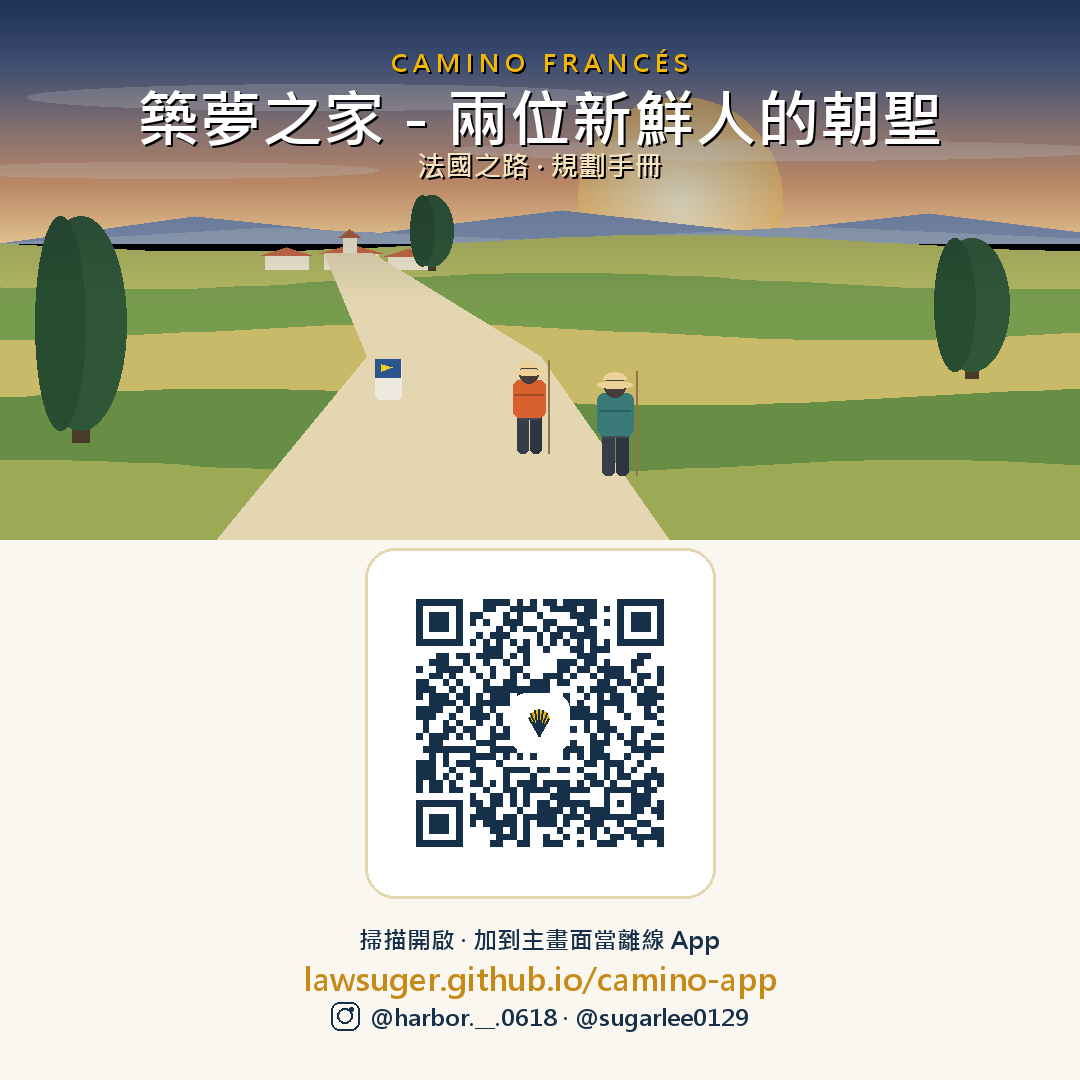
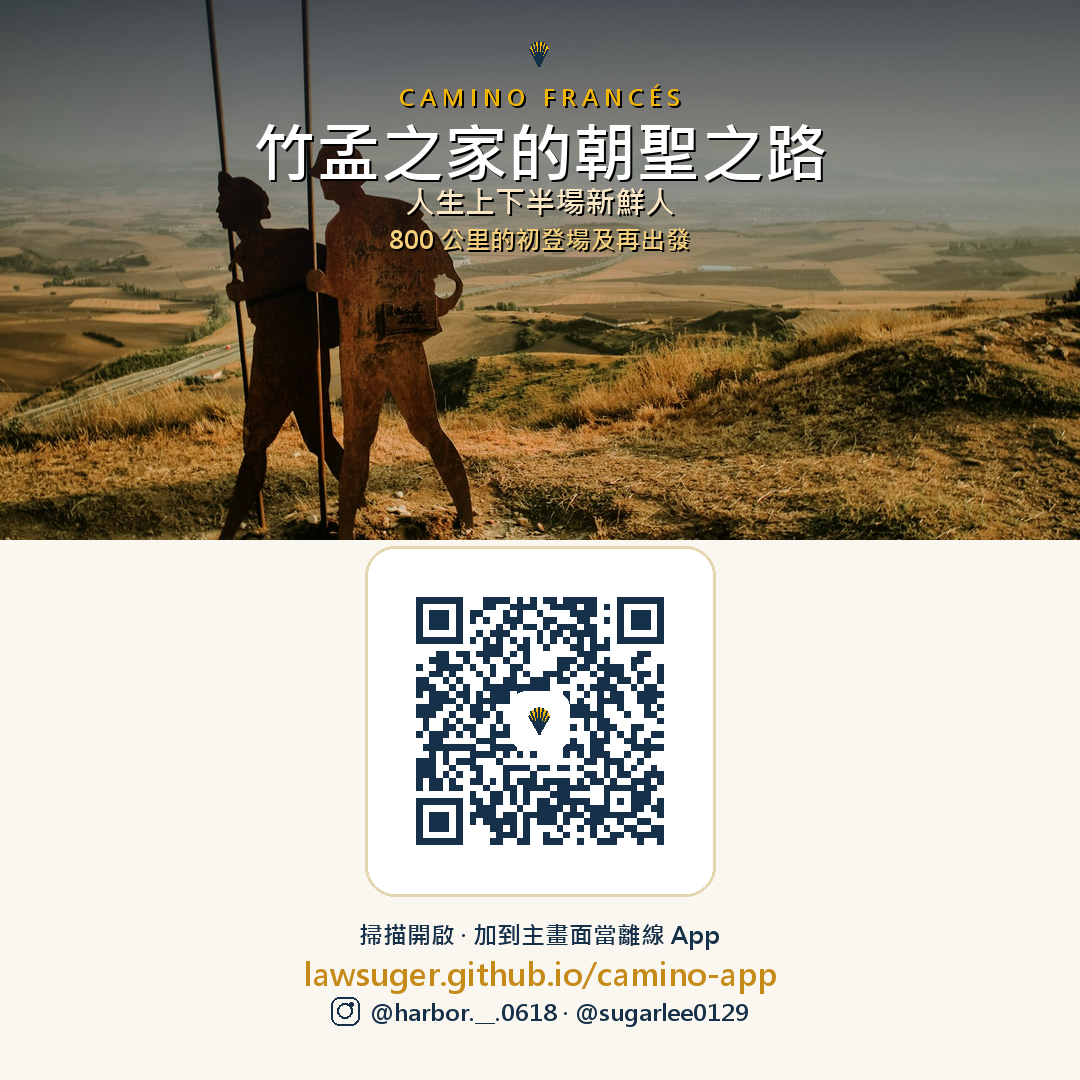
分享卡改用真實照片版（Alto del Perdón 鐵雕朝聖者，Unsplash 免費授權）＋新三行標題
- 標題：竹孟之家的朝聖之路／人生上下半場新鮮人／800公里的初登場及再出發
- 三種風格各直式+方形：乾淨 / 真實照片 / 插畫，皆含 IG、QR 解碼驗證可掃
- 新增背景圖 qr/bg-pilgrims.jpg、README 補上照片來源標註

diff --git a/make-qr.py b/make-qr.py
@@ -3,54 +3,52 @@
 # dependencies = ["qrcode[pil]>=7.4", "pillow>=10"]
 # ///
 """產生朝聖之路 App 的 QR Code 與分享卡。
+卡片底圖 qr/bg-pilgrims.jpg = Alto del Perdón 鐵雕朝聖者（Unsplash 免費授權）。
 輸出：qr-plain / qr-logo / qr.svg
-      qr-card（直式）/ qr-card-square（方形）          ← 乾淨版
-      qr-card-photo（直式）/ qr-card-photo-square（方形）← 旅行海報插畫版
+      qr-card(-square)        乾淨版
+      qr-card-photo(-square)  真實照片版（兩位朝聖者 + Camino 地標）
+      qr-card-illust(-square) 旅行海報插畫版
 用法：uv run make-qr.py"""
 import os
 import math
 import qrcode
 from qrcode.constants import ERROR_CORRECT_H
 from qrcode.image.svg import SvgPathImage
-from PIL import Image, ImageDraw, ImageFont
+from PIL import Image, ImageDraw, ImageFont, ImageOps
 
 URL = "https://lawsuger.github.io/camino-app/"
-TITLE = "築夢之家－兩位新鮮人的朝聖"
+T_MAIN = "竹孟之家的朝聖之路"
+T_SUB = "人生上下半場新鮮人"
+T_TAG = "800 公里的初登場及再出發"
 KICKER = "C A M I N O   F R A N C É S"
-SUBTITLE = "法國之路 · 規劃手冊"
-FEATURES = "裝備 · 路線 · 庇護所 · 打卡座標 · 儀式 · 美食"
 URL_TEXT = "lawsuger.github.io/camino-app"
 CAP = "掃描開啟 · 加到主畫面當離線 App"
 IG_TEXT = "@harbor.__.0618 · @sugarlee0129"
 
 OUT = os.path.join(os.path.dirname(os.path.abspath(__file__)), "qr")
+BG = os.path.join(OUT, "bg-pilgrims.jpg")
 os.makedirs(OUT, exist_ok=True)
 
-NAVY = (22, 48, 73); NAVY2 = (27, 58, 91)
+NAVY = (22, 48, 73); NAVY2 = (27, 48, 73)
 GOLD = (242, 183, 5); GOLDD = (198, 138, 24)
 MUTED = (120, 111, 98); CREAM = (250, 247, 240)
 WHITE = (255, 255, 255); FRAME = (228, 214, 176)
-
 FB = r"C:\Windows\Fonts\msjhbd.ttc"
 FR = r"C:\Windows\Fonts\msjh.ttc"
 _M = ImageDraw.Draw(Image.new("RGB", (4, 4)))
 
 
-def f(p, s):
-    return ImageFont.truetype(p, s)
+def f(p, s): return ImageFont.truetype(p, s)
 
 
-def fit(text, p, maxw, start, mn=34):
+def fit(text, p, maxw, start, mn=32):
     s = start
-    while s > mn:
-        if _M.textlength(text, font=f(p, s)) <= maxw:
-            return f(p, s)
+    while s > mn and _M.textlength(text, font=f(p, s)) > maxw:
         s -= 2
-    return f(p, mn)
+    return f(p, s)
 
 
-def lerp(a, b, t):
-    return tuple(int(a[i] + (b[i] - a[i]) * t) for i in range(3))
+def lerp(a, b, t): return tuple(int(a[i] + (b[i] - a[i]) * t) for i in range(3))
 
 
 def scallop(size):
@@ -58,8 +56,7 @@ def scallop(size):
     im = Image.new("RGBA", (size, size), (0, 0, 0, 0))
     d = ImageDraw.Draw(im)
     apex = (256 * fr, 406 * fr)
-    dome = [(146, 205), (168, 150), (210, 120), (256, 108),
-            (302, 120), (344, 150), (366, 205)]
+    dome = [(146, 205), (168, 150), (210, 120), (256, 108), (302, 120), (344, 150), (366, 205)]
     dome = [(x * fr, y * fr) for x, y in dome]
     d.polygon([apex] + dome, fill=GOLD)
     for p in dome:
@@ -70,14 +67,11 @@ def scallop(size):
 
 
 def ig_glyph(d, cx, cy, s, color):
-    r = s / 2
-    w = max(2, int(s * 0.1))
-    d.rounded_rectangle([cx - r, cy - r, cx + r, cy + r], radius=s * 0.30,
-                        outline=color, width=w)
+    r = s / 2; w = max(2, int(s * 0.1))
+    d.rounded_rectangle([cx - r, cy - r, cx + r, cy + r], radius=s * 0.30, outline=color, width=w)
     cr = s * 0.27
     d.ellipse([cx - cr, cy - cr, cx + cr, cy + cr], outline=color, width=w)
-    dr = s * 0.075
-    dx, dy = cx + r * 0.46, cy - r * 0.46
+    dr = s * 0.075; dx, dy = cx + r * 0.46, cy - r * 0.46
     d.ellipse([dx - dr, dy - dr, dx + dr, dy + dr], fill=color)
 
 
@@ -108,9 +102,8 @@ qr_logo(1000).save(os.path.join(OUT, "qr-logo.png"))
 
 def framed_qr(card, size, cx, top):
     fx = int(cx - size / 2)
-    d = ImageDraw.Draw(card)
-    d.rounded_rectangle([fx - 24, top - 24, fx + size + 24, top + size + 24],
-                        radius=30, fill=WHITE, outline=FRAME, width=3)
+    ImageDraw.Draw(card).rounded_rectangle(
+        [fx - 24, top - 24, fx + size + 24, top + size + 24], radius=30, fill=WHITE, outline=FRAME, width=3)
     card.paste(qr_logo(size), (fx, top))
     return top + size + 24
 
@@ -121,36 +114,33 @@ def footer(card, W, H, y):
     y += int(H * 0.037)
     d.text((W / 2, y), URL_TEXT, font=f(FB, int(H * 0.029)), fill=GOLDD, anchor="mm")
     y += int(H * 0.036)
-    gs = int(H * 0.026)
-    igf = f(FB, int(H * 0.0215))
-    tw = _M.textlength(IG_TEXT, font=igf)
-    gap = int(H * 0.011)
+    gs = int(H * 0.026); igf = f(FB, int(H * 0.0215))
+    tw = _M.textlength(IG_TEXT, font=igf); gap = int(H * 0.011)
     sx = W / 2 - (gs + gap + tw) / 2
     ig_glyph(d, sx + gs / 2, y, gs, NAVY)
     d.text((sx + gs + gap, y), IG_TEXT, font=igf, fill=NAVY, anchor="lm")
 
 
-# ---------- 乾淨版分享卡 ----------
+# ---------- 乾淨版 ----------
 def clean_card(W, H):
     card = Image.new("RGB", (W, H), CREAM)
     d = ImageDraw.Draw(card)
-    band = int(H * 0.155)
+    band = int(H * 0.150)
     d.rectangle([0, 0, W, band], fill=NAVY2)
-    ss = int(band * 0.46)
-    sh = scallop(ss)
+    ss = int(band * 0.46); sh = scallop(ss)
     card.paste(sh, (int(W / 2 - ss / 2), int(band * 0.13)), sh)
     d.text((W / 2, band * 0.83), KICKER, font=f(FB, int(band * 0.135)), fill=GOLD, anchor="mm")
-    y = band + int(H * 0.055)
-    d.text((W / 2, y), TITLE, font=fit(TITLE, FB, W - 150, int(H * 0.060), 40), fill=NAVY, anchor="mm")
+    y = band + int(H * 0.052)
+    d.text((W / 2, y), T_MAIN, font=fit(T_MAIN, FB, W - 150, int(H * 0.062)), fill=NAVY, anchor="mm")
     y += int(H * 0.040)
     d.rounded_rectangle([W / 2 - 66, y - 3, W / 2 + 66, y + 3], radius=3, fill=GOLD)
-    y += int(H * 0.033)
-    d.text((W / 2, y), SUBTITLE, font=f(FB, int(H * 0.030)), fill=GOLDD, anchor="mm")
-    y += int(H * 0.033)
-    d.text((W / 2, y), FEATURES, font=f(FR, int(H * 0.0225)), fill=MUTED, anchor="mm")
-    qsz = int(min(W * 0.48, H * 0.38))
-    bottom = framed_qr(card, qsz, W / 2, y + int(H * 0.038))
-    footer(card, W, H, bottom + int(H * 0.040))
+    y += int(H * 0.032)
+    d.text((W / 2, y), T_SUB, font=f(FB, int(H * 0.030)), fill=GOLDD, anchor="mm")
+    y += int(H * 0.031)
+    d.text((W / 2, y), T_TAG, font=f(FR, int(H * 0.024)), fill=MUTED, anchor="mm")
+    qsz = int(min(W * 0.47, H * 0.37))
+    bottom = framed_qr(card, qsz, W / 2, y + int(H * 0.036))
+    footer(card, W, H, bottom + int(H * 0.038))
     return card
 
 
@@ -158,7 +148,44 @@ clean_card(1080, 1350).save(os.path.join(OUT, "qr-card.png"))
 clean_card(1080, 1080).save(os.path.join(OUT, "qr-card-square.png"))
 
 
-# ---------- 旅行海報插畫場景 ----------
+# ---------- 場景版（真實照片 / 插畫共用版型）----------
+def scene_photo(W, H):
+    return ImageOps.fit(Image.open(BG).convert("RGB"), (W, H), method=Image.LANCZOS, centering=(0.42, 0.46))
+
+
+def scene_card(W, H, sq, scene_fn):
+    card = Image.new("RGB", (W, H), CREAM)
+    sceneH = int(H * (0.50 if sq else 0.55))
+    card.paste(scene_fn(W, sceneH), (0, 0))
+    sh = int(sceneH * 0.62)
+    scrim = Image.new("L", (W, sh), 0)
+    sd = ImageDraw.Draw(scrim)
+    for yy in range(sh):
+        sd.line([(0, yy), (W, yy)], fill=int(165 * (1 - yy / sh)))
+    card.paste((10, 18, 34), (0, 0, W, sh), scrim)
+    d = ImageDraw.Draw(card)
+
+    def st(xy, t, fo, fi):
+        d.text((xy[0] + 2, xy[1] + 2), t, font=fo, fill=(0, 0, 0), anchor="mm")
+        d.text(xy, t, font=fo, fill=fi, anchor="mm")
+
+    es = int(H * 0.040); semb = scallop(es)
+    card.paste(semb, (int(W / 2 - es / 2), int(H * (0.030 if sq else 0.034))), semb)
+    st((W / 2, int(H * (0.090 if sq else 0.096))), KICKER, f(FB, int(H * 0.021)), GOLD)
+    st((W / 2, int(H * (0.140 if sq else 0.150))), T_MAIN, fit(T_MAIN, FB, W - 130, int(H * 0.060)), WHITE)
+    st((W / 2, int(H * (0.186 if sq else 0.200))), T_SUB, f(FB, int(H * 0.028)), (248, 230, 196))
+    st((W / 2, int(H * (0.222 if sq else 0.238))), T_TAG, f(FB, int(H * 0.024)), (245, 208, 124))
+    qsz = int(W * (0.28 if sq else 0.32))
+    bottom = framed_qr(card, qsz, W / 2, sceneH + int(H * 0.028))
+    footer(card, W, H, bottom + int(H * 0.036))
+    return card
+
+
+scene_card(1080, 1350, False, scene_photo).save(os.path.join(OUT, "qr-card-photo.png"))
+scene_card(1080, 1080, True, scene_photo).save(os.path.join(OUT, "qr-card-photo-square.png"))
+
+
+# ---------- 插畫版場景 ----------
 def cypress(d, x, base, h, w):
     d.rectangle([x - w * 0.09, base - h * 0.12, x + w * 0.09, base], fill=(74, 58, 42))
     d.ellipse([x - w / 2, base - h, x + w / 2, base - h * 0.05], fill=(48, 86, 56))
@@ -171,116 +198,55 @@ def house(d, x, y, w, h, wall=(240, 230, 208), roof=(198, 104, 70)):
 
 
 def pilgrim_color(d, cx, feet, h, pack):
-    hr = h * 0.11
-    top = feet - h
-    lw = h * 0.10
+    hr = h * 0.11; top = feet - h; lw = h * 0.10
     d.rounded_rectangle([cx - lw * 1.3, feet - h * 0.44, cx - lw * 0.1, feet], radius=lw * 0.5, fill=(54, 60, 72))
     d.rounded_rectangle([cx + lw * 0.1, feet - h * 0.44, cx + lw * 1.3, feet], radius=lw * 0.5, fill=(46, 52, 64))
     d.line([(cx + h * 0.23, feet + h * 0.01), (cx + h * 0.23, top - hr * 0.4)], fill=(150, 116, 74), width=max(2, int(h * 0.028)))
     d.rounded_rectangle([cx - h * 0.15, top + 1.7 * hr, cx + h * 0.15, feet - h * 0.38], radius=h * 0.05, fill=(64, 76, 92))
     d.rounded_rectangle([cx - h * 0.18, top + 1.6 * hr, cx + h * 0.18, top + 1.6 * hr + h * 0.42], radius=h * 0.07, fill=pack)
-    d.line([(cx - h * 0.16, top + 1.6 * hr + h * 0.17), (cx + h * 0.16, top + 1.6 * hr + h * 0.17)], fill=lerp(pack, (0, 0, 0), 0.22), width=max(2, int(h * 0.022)))
     d.ellipse([cx - hr, top, cx + hr, top + 2 * hr], fill=(70, 60, 58))
     d.chord([cx - hr * 1.1, top - hr * 0.3, cx + hr * 1.1, top + hr * 1.0], 180, 360, fill=(236, 210, 152))
     d.ellipse([cx - hr * 1.6, top + hr * 0.55, cx + hr * 1.6, top + hr * 1.15], fill=(236, 210, 152))
 
 
 def poster_scene(W, H):
-    img = Image.new("RGB", (W, H))
-    d = ImageDraw.Draw(img)
+    img = Image.new("RGB", (W, H)); d = ImageDraw.Draw(img)
     hz = int(H * 0.45)
     sky = [(60, 92, 150), (104, 126, 178), (188, 156, 152), (240, 170, 120), (252, 216, 156)]
     for y in range(hz):
-        seg = (y / hz) * (len(sky) - 1)
-        i = min(int(seg), len(sky) - 2)
+        seg = (y / hz) * (len(sky) - 1); i = min(int(seg), len(sky) - 2)
         d.line([(0, y), (W, y)], fill=lerp(sky[i], sky[i + 1], seg - i))
     sx, sy, R = int(W * 0.63), int(hz * 0.82), int(W * 0.095)
     for r in range(R, 0, -1):
         d.ellipse([sx - r, sy - r, sx + r, sy + r], fill=lerp((255, 246, 214), (252, 200, 120), r / R))
-    ov = Image.new("RGBA", (W, H), (0, 0, 0, 0))
-    od = ImageDraw.Draw(ov)
-    for cx, cy, cw, ch, al in [(W * 0.30, hz * 0.40, W * 0.55, 26, 95),
-                               (W * 0.72, hz * 0.62, W * 0.6, 20, 70),
-                               (W * 0.15, hz * 0.7, W * 0.4, 16, 60)]:
-        od.ellipse([cx - cw / 2, cy - ch / 2, cx + cw / 2, cy + ch / 2], fill=(255, 255, 255, al))
-    img = Image.alpha_composite(img.convert("RGBA"), ov).convert("RGB")
-    d = ImageDraw.Draw(img)
-    # 遠山
-    d.polygon([(0, hz), (W * 0.18, hz - H * 0.05), (W * 0.34, hz - H * 0.015),
-               (W * 0.52, hz - H * 0.06), (W * 0.7, hz - H * 0.02),
-               (W * 0.86, hz - H * 0.055), (W, hz - H * 0.02), (W, hz)], fill=(126, 144, 178))
-    d.polygon([(0, hz), (W * 0.25, hz - H * 0.028), (W * 0.5, hz - H * 0.005),
-               (W * 0.75, hz - H * 0.03), (W, hz - H * 0.008), (W, hz)], fill=(150, 165, 188))
-    # 梯田
+    d.polygon([(0, hz), (W * 0.18, hz - H * 0.05), (W * 0.34, hz - H * 0.015), (W * 0.52, hz - H * 0.06),
+               (W * 0.7, hz - H * 0.02), (W * 0.86, hz - H * 0.055), (W, hz - H * 0.02), (W, hz)], fill=(126, 144, 178))
     for frac, col in [(0.0, (176, 182, 96)), (0.13, (120, 156, 78)), (0.30, (200, 186, 104)),
                       (0.52, (104, 142, 70)), (0.76, (156, 170, 86))]:
         ytop = hz + int((H - hz) * frac)
-        pts = [(0, H)]
-        for x in range(0, W + 1, 18):
-            pts.append((x, ytop + int(math.sin(x * 0.007 + frac * 6) * 9)))
-        pts += [(W, H)]
+        pts = [(0, H)] + [(x, ytop + int(math.sin(x * 0.007 + frac * 6) * 9)) for x in range(0, W + 1, 18)] + [(W, H)]
         d.polygon(pts, fill=col)
-    # 小村（路的盡頭、地平線附近）
     vx, vy = int(W * 0.30), hz + int(H * 0.02)
-    house(d, vx, vy, int(W * 0.05), int(H * 0.03))
-    house(d, vx + int(W * 0.06), vy + int(H * 0.006), int(W * 0.04), int(H * 0.025))
+    house(d, vx, vy, int(W * 0.05), int(H * 0.03)); house(d, vx + int(W * 0.06), vy + int(H * 0.006), int(W * 0.04), int(H * 0.025))
     house(d, vx - int(W * 0.055), vy + int(H * 0.004), int(W * 0.04), int(H * 0.026))
-    d.rectangle([vx + int(W * 0.018), vy - int(H * 0.03), vx + int(W * 0.03), vy], fill=(240, 230, 208))
-    d.polygon([(vx + int(W * 0.014), vy - int(H * 0.03)), (vx + int(W * 0.034), vy - int(H * 0.03)),
-               (vx + int(W * 0.024), vy - int(H * 0.045))], fill=(176, 92, 62))
-    # 朝聖小徑（從前景蜿蜒到村莊）
-    d.polygon([(int(W * 0.32), hz + int(H * 0.02)), (int(W * 0.30), hz + int(H * 0.02)),
-               (int(W * 0.34), int(H * 0.66)), (int(W * 0.20), H), (int(W * 0.62), H),
-               (int(W * 0.50), int(H * 0.66)), (int(W * 0.345), hz + int(H * 0.02))],
-              fill=(228, 214, 176))
-    # 絲柏
+    d.polygon([(int(W * 0.32), hz + int(H * 0.02)), (int(W * 0.30), hz + int(H * 0.02)), (int(W * 0.34), int(H * 0.66)),
+               (int(W * 0.20), H), (int(W * 0.62), H), (int(W * 0.50), int(H * 0.66)), (int(W * 0.345), hz + int(H * 0.02))], fill=(228, 214, 176))
     cypress(d, int(W * 0.075), int(H * 0.82), int(H * 0.42), int(W * 0.085))
-    cypress(d, int(W * 0.40), hz + int(H * 0.05), int(H * 0.14), int(W * 0.04))
     cypress(d, int(W * 0.90), int(H * 0.70), int(H * 0.26), int(W * 0.07))
-    # 黃箭頭路標石
     wx, wb, ws = int(W * 0.36), int(H * 0.74), int(H * 0.075)
     d.rounded_rectangle([wx - ws * 0.32, wb - ws, wx + ws * 0.32, wb], radius=ws * 0.12, fill=(238, 233, 222))
     d.rectangle([wx - ws * 0.32, wb - ws, wx + ws * 0.32, wb - ws * 0.55], fill=(40, 86, 140))
-    d.polygon([(wx - ws * 0.16, wb - ws * 0.86), (wx + ws * 0.12, wb - ws * 0.78),
-               (wx - ws * 0.16, wb - ws * 0.70)], fill=(244, 202, 44))
-    # 兩位朝聖者（兩位新鮮人）
+    d.polygon([(wx - ws * 0.16, wb - ws * 0.86), (wx + ws * 0.12, wb - ws * 0.78), (wx - ws * 0.16, wb - ws * 0.70)], fill=(244, 202, 44))
     pilgrim_color(d, int(W * 0.49), int(H * 0.84), int(H * 0.165), (216, 96, 46))
     pilgrim_color(d, int(W * 0.57), int(H * 0.88), int(H * 0.185), (58, 122, 120))
     return img
 
 
-# ---------- 海報版分享卡 ----------
-def poster_card(W, H, sq=False):
-    card = Image.new("RGB", (W, H), CREAM)
-    sceneH = int(H * (0.50 if sq else 0.54))
-    card.paste(poster_scene(W, sceneH), (0, 0))
-    sh = int(sceneH * 0.56)
-    scrim = Image.new("L", (W, sh), 0)
-    sd = ImageDraw.Draw(scrim)
-    for y in range(sh):
-        sd.line([(0, y), (W, y)], fill=int(155 * (1 - y / sh)))
-    card.paste((14, 24, 42), (0, 0, W, sh), scrim)
-    d = ImageDraw.Draw(card)
+scene_card(1080, 1350, False, poster_scene).save(os.path.join(OUT, "qr-card-illust.png"))
+scene_card(1080, 1080, True, poster_scene).save(os.path.join(OUT, "qr-card-illust-square.png"))
 
-    def st(xy, text, font, fill):
-        d.text((xy[0] + 2, xy[1] + 2), text, font=font, fill=(0, 0, 0), anchor="mm")
-        d.text(xy, text, font=font, fill=fill, anchor="mm")
-
-    st((W / 2, int(H * (0.058 if sq else 0.065))), KICKER, f(FB, int(H * 0.023)), GOLD)
-    st((W / 2, int(H * (0.108 if sq else 0.122))), TITLE, fit(TITLE, FB, W - 120, int(H * 0.058), 40), WHITE)
-    st((W / 2, int(H * (0.152 if sq else 0.170))), SUBTITLE, f(FB, int(H * 0.026)), (246, 228, 192))
-
-    qsz = int(W * (0.28 if sq else 0.32))
-    bottom = framed_qr(card, qsz, W / 2, sceneH + int(H * 0.030))
-    footer(card, W, H, bottom + int(H * 0.038))
-    return card
-
-
-poster_card(1080, 1350, sq=False).save(os.path.join(OUT, "qr-card-photo.png"))
-poster_card(1080, 1080, sq=True).save(os.path.join(OUT, "qr-card-photo-square.png"))
-
-for fn in ("qr-plain.png", "qr-logo.png", "qr.svg", "qr-card.png",
-           "qr-card-square.png", "qr-card-photo.png", "qr-card-photo-square.png"):
+for fn in ("qr-plain.png", "qr-logo.png", "qr.svg", "qr-card.png", "qr-card-square.png",
+           "qr-card-photo.png", "qr-card-photo-square.png", "qr-card-illust.png", "qr-card-illust-square.png"):
     p = os.path.join(OUT, fn)
-    print(f"{fn:24} {os.path.getsize(p):>8,} bytes")
+    print(f"{fn:26} {os.path.getsize(p):>8,} bytes")
 print("OK ->", OUT)

diff --git a/README.md b/README.md
@@ -46,6 +46,11 @@ camino-app/
 
 整合自 buencaminoinfo、gotokm0、prosabrina、cherstravel 等中文實走遊記，以及 Gronze、CaminoWays、American Pilgrims 等英文權威站與官方禮儀頁。
 
+分享卡（`qr/` 資料夾）：
+- `qr-card-photo*`：底圖為 Alto del Perdón 寬恕之峰鐵雕朝聖者，照片來自 [Unsplash](https://unsplash.com/)（免費授權 Unsplash License）。
+- `qr-card-illust*`：程式繪製插畫（`make-qr.py`），版權自有。
+- QR 皆指向本站、ECC-H 容錯、已用 zxing-cpp 解碼驗證可掃。
+
 > ⚠ 庇護所價格與彌撒時間逐年微調，出發前請再次確認；公立庇護所多為先到先得、不可預訂。
 
 ---
